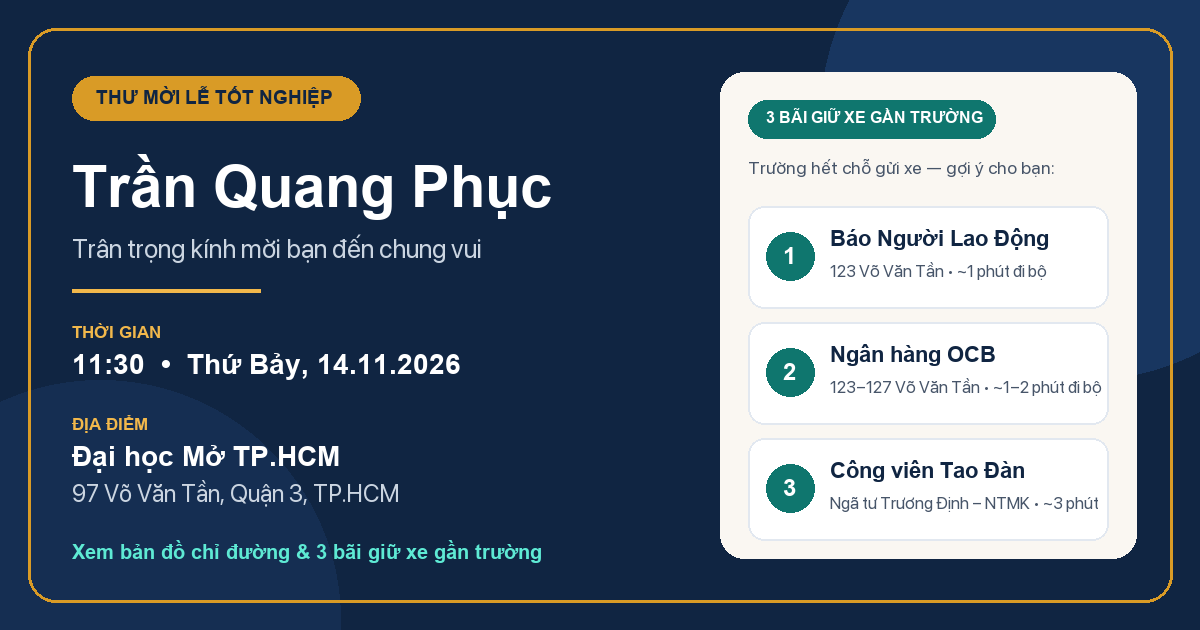
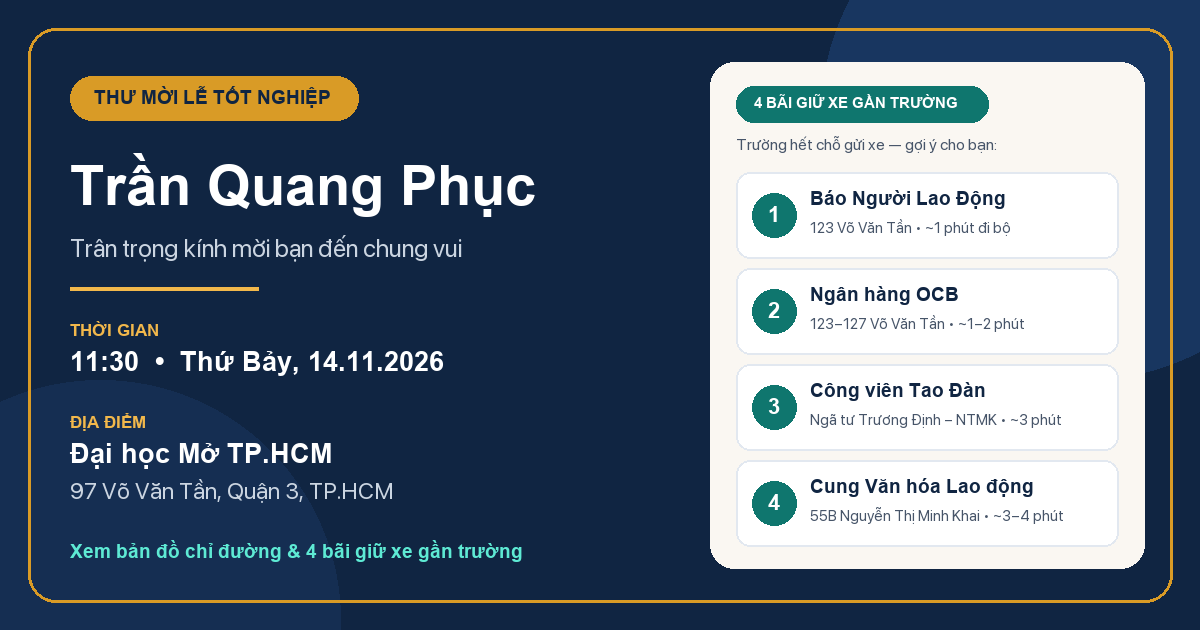
Add Cung Van hoa Lao dong (55B NTMK) parking and replace 3-card tips with concise 1-way street notice

diff --git a/index.html b/index.html
@@ -4,14 +4,14 @@
   <meta charset="UTF-8" />
   <meta name="viewport" content="width=device-width, initial-scale=1.0, viewport-fit=cover" />
   <title>Lễ Tốt Nghiệp Trần Quang Phục • Bản Đồ Bãi Giữ Xe (14/11)</title>
-  <meta name="description" content="Thư mời Lễ Tốt Nghiệp của Trần Quang Phục lúc 11:30 Thứ Bảy 14/11/2026 tại ĐH Mở TP.HCM (97 Võ Văn Tần, Q.3). Kèm bản đồ và chỉ đường 3 bãi giữ xe ngay gần trường." />
+  <meta name="description" content="Thư mời Lễ Tốt Nghiệp của Trần Quang Phục lúc 11:30 Thứ Bảy 14/11/2026 tại ĐH Mở TP.HCM (97 Võ Văn Tần, Q.3). Kèm bản đồ và chỉ đường 4 bãi giữ xe ngay gần trường." />
   <meta name="theme-color" content="#102542" />
 
   <!-- Open Graph / Zalo / Messenger link preview -->
   <meta property="og:type" content="website" />
   <meta property="og:locale" content="vi_VN" />
   <meta property="og:title" content="Thư mời Lễ Tốt Nghiệp — Trần Quang Phục (14/11 • 11:30)" />
-  <meta property="og:description" content="ĐH Mở TP.HCM (97 Võ Văn Tần, Q.3). Trường hết chỗ giữ xe — xem bản đồ & chỉ đường 3 bãi giữ xe ngay gần trường." />
+  <meta property="og:description" content="ĐH Mở TP.HCM (97 Võ Văn Tần, Q.3). Trường hết chỗ giữ xe — xem bản đồ & chỉ đường 4 bãi giữ xe ngay gần trường." />
   <meta property="og:url" content="https://quangphucqn.github.io/le-tot-nghiep/" />
   <meta property="og:image" content="https://quangphucqn.github.io/le-tot-nghiep/og-image.png" />
   <meta property="og:image:width" content="1200" />
@@ -80,7 +80,7 @@
         <div class="alert-icon" aria-hidden="true">🛵</div>
         <div class="alert-text">
           <strong>Lưu ý quan trọng về chỗ gửi xe:</strong>
-          Hiện bãi giữ xe trong trường đã hết chỗ. Mọi người vui lòng gửi xe tại <strong>1 trong 3 bãi ngay gần trường</strong> bên dưới (chỉ cách 1–3 phút đi bộ) rồi đi bộ sang sân trường nhé!
+          Hiện bãi giữ xe trong trường đã hết chỗ. Mọi người vui lòng gửi xe tại <strong>1 trong 4 bãi ngay gần trường</strong> bên dưới (chỉ cách 1–4 phút đi bộ) rồi đi bộ sang sân trường nhé!
         </div>
       </div>
 
@@ -120,7 +120,7 @@
     <section class="section-heading">
       <div>
         <span class="section-eyebrow">BẢN ĐỒ &amp; CHỈ ĐƯỜNG TRỰC QUAN</span>
-        <h2>Vị trí trường &amp; 3 bãi giữ xe gần nhất</h2>
+        <h2>Vị trí trường &amp; 4 bãi giữ xe gần nhất</h2>
         <p class="section-subtitle">
           Chọn một bãi giữ xe để xem lộ trình đi bộ đến cổng 97 Võ Văn Tần hoặc bấm <strong>Chỉ đường Google Maps</strong> để dẫn đường GPS.
         </p>
@@ -176,7 +176,7 @@
           </div>
 
           <div class="map-footer-note">
-            <span>💡 Chạm vào biểu tượng <strong>P1, P2, P3</strong> hoặc <strong>🎓 ĐH Mở</strong> trên bản đồ để xem chi tiết &amp; mở Google Maps.</span>
+            <span>💡 Chạm vào biểu tượng <strong>P1–P4</strong> hoặc <strong>🎓 ĐH Mở</strong> trên bản đồ để xem chi tiết &amp; mở Google Maps.</span>
           </div>
         </div>
       </div>
@@ -189,36 +189,17 @@
       </div>
     </section>
 
-    <!-- Local Traffic & Arrival Tips -->
-    <section class="tips-section" aria-labelledby="tips-heading">
-      <div class="tips-header">
-        <span class="section-eyebrow">KINH NGHIỆM DI CHUYỂN NHANH</span>
-        <h2 id="tips-heading">Lưu ý đường 1 chiều để không đi lố cổng</h2>
+    <!-- Compact One-Way Street Notice -->
+    <section class="oneway-notice" aria-label="Chú ý khu vực đường một chiều">
+      <div class="oneway-notice-head">
+        <span class="oneway-notice-badge">⚠ CHÚ Ý ĐƯỜNG 1 CHIỀU</span>
+        <span class="oneway-notice-sub">Khu vực quanh trường có nhiều tuyến đường 1 chiều, bạn để ý hướng chạy trước khi rẽ nhé:</span>
       </div>
-      <div class="tips-grid">
-        <article class="tip-card">
-          <div class="tip-num">01</div>
-          <h3>Võ Văn Tần là đường 1 chiều</h3>
-          <p>
-            Xe chạy theo hướng từ <strong>Cách Mạng Tháng Tám / Bà Huyện Thanh Quan</strong> đi về phía <strong>Trương Định / Pasteur</strong>.
-            Vì vậy, bạn sẽ đi ngang <strong>Cao ốc 123–127 Võ Văn Tần (Báo Người Lao Động &amp; OCB)</strong> <em>ngay trước khi</em> tới cổng trường số 97!
-          </p>
-        </article>
-        <article class="tip-card">
-          <div class="tip-num">02</div>
-          <h3>Mẹo chọn bãi nhanh nhất</h3>
-          <p>
-            Vừa qua giao lộ <strong>Bà Huyện Thanh Quan</strong> một chút bên tay phải là cụm <strong>Báo Người Lao Động (123)</strong> và <strong>Ngân hàng OCB (123–127)</strong> — tấp vào gửi rồi đi bộ thẳng 1 phút lên số 97 là tiện nhất.
-          </p>
-        </article>
-        <article class="tip-card">
-          <div class="tip-num">03</div>
-          <h3>Phương án dự phòng rộng rãi</h3>
-          <p>
-            Nếu 2 bãi trên đông, bạn rẽ phải sang <strong>Trương Định</strong> (cũng là đường 1 chiều hướng xuống Công viên Tao Đàn), chạy qua ngã tư <strong>Nguyễn Thị Minh Khai</strong> để gửi tại <strong>Công viên Tao Đàn</strong>, rồi đi bộ ngược lại khoảng 3 phút.
-          </p>
-        </article>
-      </div>
+      <ul class="oneway-notice-list">
+        <li><strong>Võ Văn Tần:</strong> 1 chiều hướng từ Cách Mạng Tháng Tám / Bà Huyện Thanh Quan → về Trương Định / Pasteur.</li>
+        <li><strong>Trương Định:</strong> 1 chiều hướng từ Võ Văn Tần → xuống Công viên Tao Đàn (Nguyễn Thị Minh Khai).</li>
+        <li><strong>Nguyễn Thị Minh Khai:</strong> 1 chiều hướng từ Cách Mạng Tháng Tám / Trương Định → về Cung Văn hóa Lao động / Nam Kỳ Khởi Nghĩa.</li>
+      </ul>
     </section>
 
     <!-- Checklist / Schedule Banner -->

diff --git a/app.js b/app.js
@@ -13,7 +13,7 @@
     name: 'Trường Đại học Mở TP.HCM',
     address: '97 Võ Văn Tần, P. Xuân Hòa (P.6 cũ), Quận 3, TP.HCM',
     coords: [10.77645, 106.69043],
-    note: 'Hẹn gặp mọi người lúc 11:30 Thứ Bảy 14/11/2026. Do bãi xe trường đã hết chỗ, vui lòng gửi xe ở 1 trong 3 bãi P1–P3 bên dưới.',
+    note: 'Hẹn gặp mọi người lúc 11:30 Thứ Bảy 14/11/2026. Do bãi xe trường đã hết chỗ, vui lòng gửi xe ở 1 trong 4 bãi P1–P4 bên dưới.',
     gmapsUrl: 'https://www.google.com/maps/dir/?api=1&destination=10.77645,106.69043'
   };
 
@@ -79,6 +79,28 @@
       ],
       note: 'Chỗ gửi xe rộng rãi ngay góc ngã tư Trương Định – Nguyễn Thị Minh Khai (cổng Công viên Tao Đàn). Gửi xe xong đi bộ ngược lên đường Trương Định ~3 phút là tới cổng 97 Võ Văn Tần.',
       gmapsUrl: 'https://www.google.com/maps/dir/?api=1&destination=10.77562,106.69205'
+    },
+    {
+      id: 'p4-cvhld',
+      type: 'parking',
+      code: 'P4',
+      shortLabel: 'Cung VHLĐ (55B)',
+      labelPlacement: 'above',
+      tag: 'RỘNG RÃI • ~3–4 PHÚT ĐI BỘ',
+      distance: '~250m',
+      walkMinutes: '~3–4 phút đi bộ',
+      name: 'Bãi giữ xe Cung Văn hóa Lao động',
+      address: '55B Nguyễn Thị Minh Khai, P. Bến Thành, Quận 1',
+      coords: [10.77665, 106.69265],
+      walkPath: [
+        [10.77665, 106.69265],
+        [10.77673, 106.69234],
+        [10.77600, 106.69166],
+        [10.77667, 106.69066],
+        [10.77645, 106.69043]
+      ],
+      note: 'Bãi giữ xe rộng rãi ngay cạnh Công viên Tao Đàn, mặt tiền 55B Nguyễn Thị Minh Khai (có lối gửi xe phía đường Trương Định và Huyền Trân Công Chúa). Đi bộ ra ngã tư Trương Định rồi ngược lên 97 Võ Văn Tần.',
+      gmapsUrl: 'https://www.google.com/maps/dir/?api=1&destination=10.77665,106.69265'
     }
   ];
 
@@ -359,6 +381,29 @@
       })
     }).addTo(oneWayGroup);
 
+    // Nguyễn Thị Minh Khai one-way SW -> NE
+    L.polyline(
+      [
+        [10.77455, 106.69030],
+        [10.77755, 106.69310]
+      ],
+      {
+        color: '#102542',
+        weight: 2.5,
+        opacity: 0.4,
+        dashArray: '4 8'
+      }
+    ).addTo(oneWayGroup);
+
+    L.marker([10.77492, 106.69065], {
+      interactive: false,
+      icon: L.divIcon({
+        className: 'custom-marker-wrap',
+        html: '<div class="oneway-badge">Nguyễn Thị Minh Khai 1 chiều ↗</div>',
+        iconSize: [0, 0]
+      })
+    }).addTo(oneWayGroup);
+
     if (oneWayVisible) {
       oneWayGroup.addTo(map);
     }
@@ -582,7 +627,7 @@
       shareBtn.addEventListener('click', async () => {
         const shareData = {
           title: 'Lễ Tốt Nghiệp Trần Quang Phục (14/11 • 11:30)',
-          text: 'Mời bạn đến dự lễ tốt nghiệp của Phục tại ĐH Mở TP.HCM (97 Võ Văn Tần) lúc 11:30 Thứ Bảy 14/11. Xem bản đồ 3 bãi giữ xe gần trường ở đây nhé:',
+          text: 'Mời bạn đến dự lễ tốt nghiệp của Phục tại ĐH Mở TP.HCM (97 Võ Văn Tần) lúc 11:30 Thứ Bảy 14/11. Xem bản đồ 4 bãi giữ xe gần trường ở đây nhé:',
           url: window.location.href
         };
 
@@ -620,7 +665,7 @@
           'DTEND:20261114T063000Z',
           'SUMMARY:Lễ Tốt Nghiệp Trần Quang Phục - ĐH Mở TP.HCM',
           'LOCATION:Trường Đại học Mở TP.HCM, 97 Võ Văn Tần, Quận 3, TP.HCM',
-          'DESCRIPTION:Trường hết chỗ gửi xe. Các bãi gửi xe gần trường: (1) Báo Người Lao Động 123 Võ Văn Tần, (2) Ngân hàng OCB 123-127 Võ Văn Tần, (3) Công viên Tao Đàn (Ngã tư Trương Định - Nguyễn Thị Minh Khai).',
+          'DESCRIPTION:Trường hết chỗ gửi xe. Các bãi gửi xe gần trường: (1) Báo Người Lao Động 123 Võ Văn Tần, (2) Ngân hàng OCB 123-127 Võ Văn Tần, (3) Công viên Tao Đàn (Ngã tư Trương Định - Nguyễn Thị Minh Khai), (4) Cung Văn hóa Lao động 55B Nguyễn Thị Minh Khai.',
           'END:VEVENT',
           'END:VCALENDAR'
         ].join('\r\n');

diff --git a/styles.css b/styles.css
@@ -905,51 +905,53 @@ button {
   border-radius: 8px;
 }
 
-/* ==================== TIPS & SCHEDULE ==================== */
-.tips-section {
-  margin-top: 2.5rem;
-}
-
-.tips-header {
-  margin-bottom: 1.15rem;
-}
-
-.tips-grid {
-  display: grid;
-  grid-template-columns: repeat(auto-fit, minmax(250px, 1fr));
-  gap: 1rem;
-}
-
-.tip-card {
-  background: var(--surface);
-  border: 1px solid var(--border);
+/* ==================== ONE-WAY NOTICE & SCHEDULE ==================== */
+.oneway-notice {
+  margin-top: 1.75rem;
+  background: #fffbeb;
+  border: 1.5px solid #fcd34d;
   border-radius: var(--radius-lg);
-  padding: 1.2rem;
+  padding: 1.1rem 1.25rem;
   box-shadow: var(--shadow-sm);
 }
 
-.tip-num {
-  display: inline-block;
+.oneway-notice-head {
+  display: flex;
+  flex-wrap: wrap;
+  align-items: center;
+  gap: 0.6rem;
+  margin-bottom: 0.65rem;
+}
+
+.oneway-notice-badge {
+  display: inline-flex;
+  align-items: center;
+  font-size: 0.74rem;
   font-weight: 800;
-  font-size: 0.78rem;
-  color: var(--gold);
+  letter-spacing: 0.05em;
   background: var(--navy);
-  padding: 0.2rem 0.58rem;
+  color: var(--gold-bright);
+  padding: 0.25rem 0.68rem;
   border-radius: 999px;
-  margin-bottom: 0.6rem;
 }
 
-.tip-card h3 {
-  margin: 0 0 0.4rem;
-  font-size: 1.02rem;
-  font-weight: 800;
-  color: var(--navy);
+.oneway-notice-sub {
+  font-size: 0.9rem;
+  font-weight: 600;
+  color: #78350f;
 }
 
-.tip-card p {
+.oneway-notice-list {
   margin: 0;
-  font-size: 0.89rem;
-  color: var(--text-muted);
+  padding-left: 1.25rem;
+  display: grid;
+  gap: 0.32rem;
+  font-size: 0.88rem;
+  color: #451a03;
+}
+
+.oneway-notice-list strong {
+  color: var(--navy);
 }
 
 .timeline-card {

diff --git a/README.md b/README.md
@@ -6,6 +6,7 @@ Trang web hướng dẫn khách tham dự Lễ Tốt Nghiệp ngày **14/11/2026
 1. **Báo Người Lao Động** — 123 Võ Văn Tần, Q.3 (~1 phút đi bộ)
 2. **Ngân hàng OCB** — 123–127 Võ Văn Tần, Q.3 (~1–2 phút đi bộ)
 3. **Công viên Tao Đàn** — Ngã tư Trương Định – Nguyễn Thị Minh Khai, Q.1 (~3 phút đi bộ)
+4. **Cung Văn hóa Lao động** — 55B Nguyễn Thị Minh Khai, Q.1 (~3–4 phút đi bộ)
 
 ## Triển khai
 Trang web tĩnh (HTML/CSS/JS + Leaflet) được deploy trực tiếp qua GitHub Pages.
